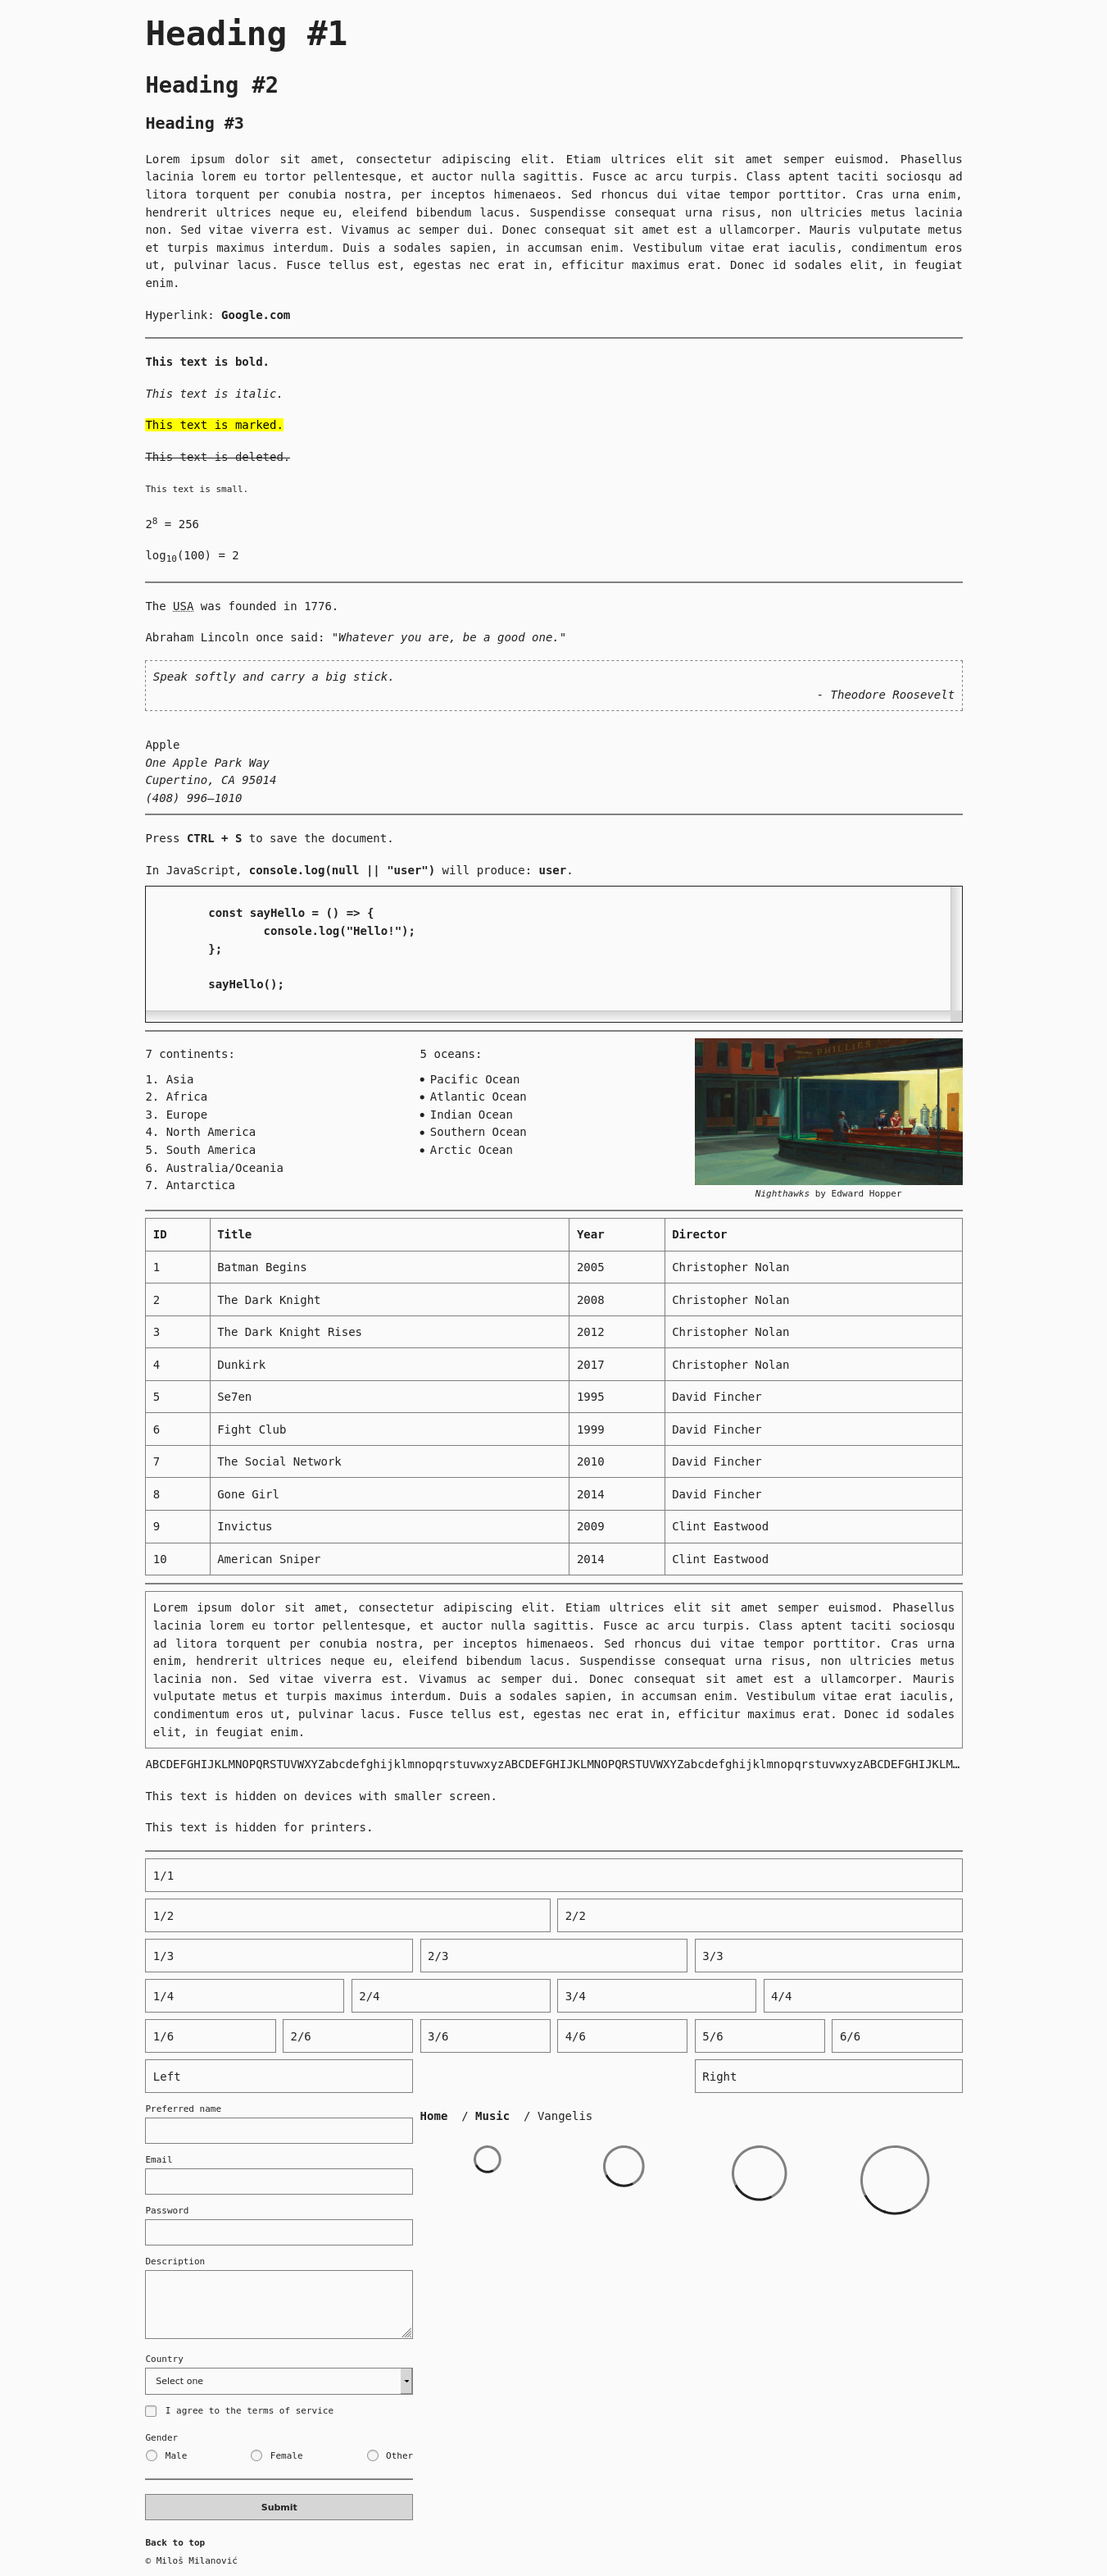
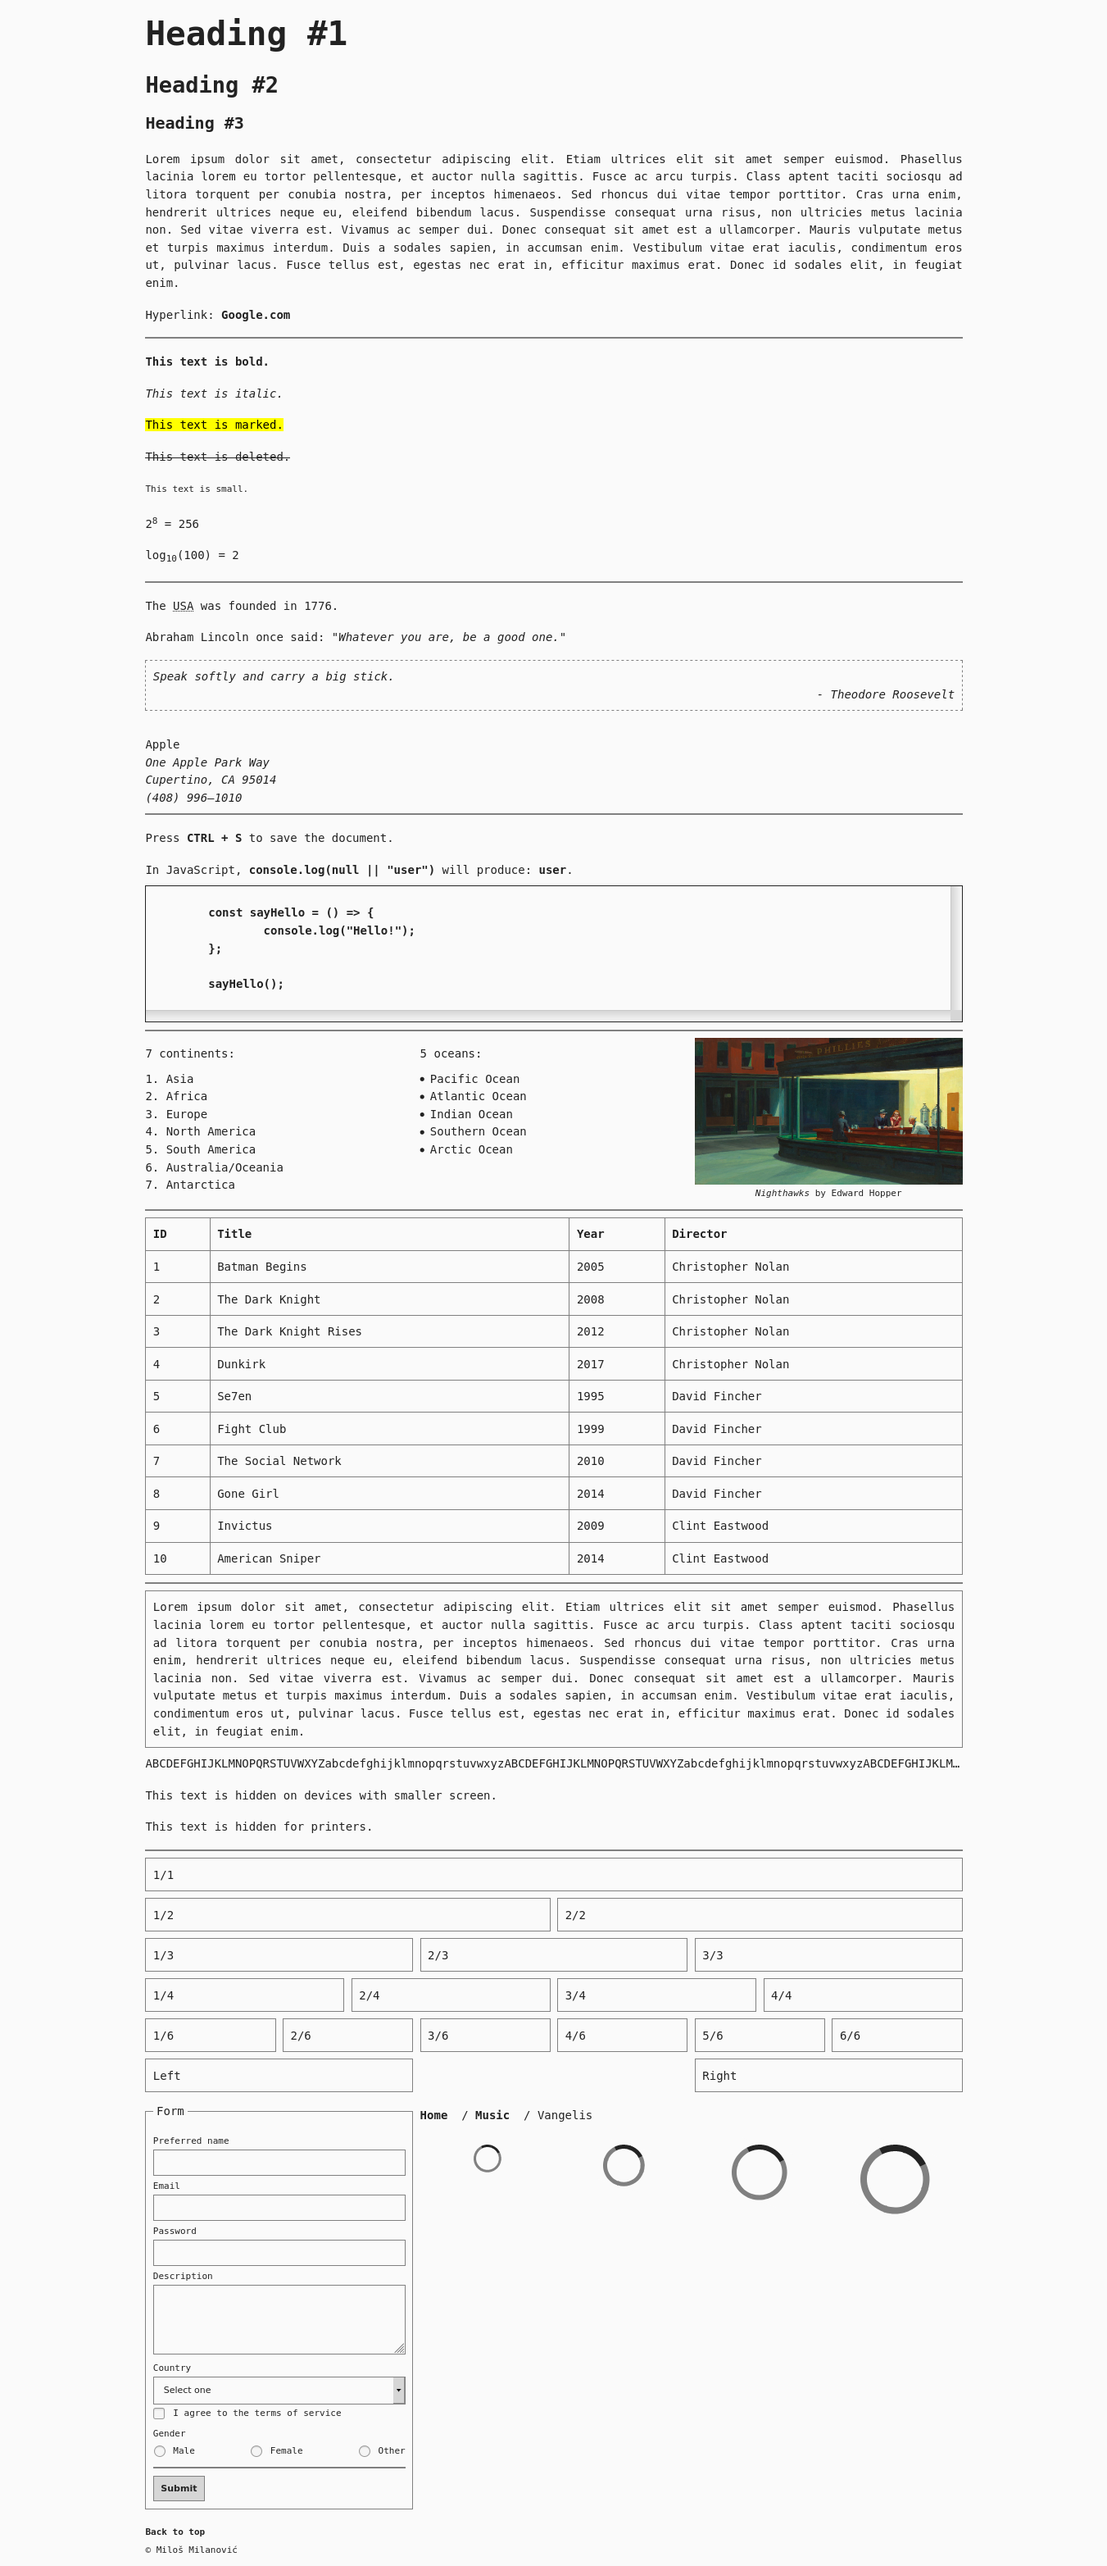
Style fieldset and legend elements

diff --git a/dist/minimalizr.css b/dist/minimalizr.css
@@ -1,1 +1,1 @@
-::selection{background-color:#222;color:#fafafa}*{box-sizing:border-box;margin:0;padding:0}*:focus{outline:1px dashed gray;outline-offset:2px}html{font-size:100%;scroll-behavior:smooth}body{background-color:#fafafa;color:#222;font-family:monospace;font-size:1rem;line-height:1.6rem}h1,h2,h3{margin:10px 0}h1{font-size:3rem;line-height:4.8rem}h2{font-size:2rem;line-height:3.2rem}h3{font-size:1.5rem;line-height:2.4rem}p{padding:10px 0;text-align:justify}a{color:inherit;cursor:pointer;font-weight:bold;outline:none;text-decoration:none}a:active{outline:1px dotted gray;outline-offset:4px}a:hover{text-decoration:underline}strong{font-weight:bold}em{font-style:italic}mark{background-color:#ff0}del{text-decoration:line-through}small,sub,sup{font-size:smaller}sub{vertical-align:sub}sup{vertical-align:super}abbr[title]{text-decoration:underline dotted}q{font-style:italic}q::before,q::after{content:'"'}blockquote{border:1px dashed gray;font-style:italic;margin:10px 0;padding:10px;text-align:justify}blockquote div{text-align:right}address,cite{font-style:italic}kbd,samp,code,pre{font-family:monospace;font-weight:bold}.code{border:1px solid #222;padding:0 10px;overflow:scroll}.code pre{tab-size:2}ul,ol{list-style-position:inside}img{max-width:100%;vertical-align:middle}figure figcaption{font-size:smaller;text-align:center}.table-responsive{max-width:100%;overflow-x:auto}table{border-collapse:collapse;width:100%}th,td{border:1px solid gray;padding:10px;text-align:left}form{display:grid;grid-auto-flow:row;grid-gap:10px}label{font-size:smaller}label span{user-select:none}label span:first-child{display:inline-block}.checkbox label{cursor:pointer;display:inline-flex;align-items:center}.checkbox input[type=checkbox]{width:auto;margin-right:10px}.radiogroup{display:flex;justify-content:space-between;flex-wrap:wrap}.radiogroup>span{font-size:smaller;width:100%}.radiogroup label{cursor:pointer;user-select:none;display:inline-flex;align-items:center;flex-direction:row-reverse}.radiogroup input[type=radio]{width:auto;margin-right:10px}input,textarea,select{border:1px solid gray;background-color:#fafafa;padding:10px;width:100%;box-shadow:none;outline:none}input:focus:not([type=checkbox]):not([type=radio]),textarea:focus:not([type=checkbox]):not([type=radio]),select:focus:not([type=checkbox]):not([type=radio]){outline:2px solid gray;outline-offset:0}input:invalid,textarea:invalid,select:invalid{border-color:red}input:disabled,textarea:disabled,select:disabled{color:gray;cursor:not-allowed}textarea{height:100px;min-height:40px;max-height:300px;resize:vertical}button{cursor:pointer;font-weight:bold;border:1px solid gray;color:#222;padding:10px;transition-property:background-color color;transition-duration:.2s;transition-timing-function:ease-in-out}button:hover:not(:disabled){background-color:#222;color:#fafafa}button:disabled{cursor:not-allowed}button:focus{outline:2px solid gray;outline-offset:0}hr{border:1px solid gray;margin:10px 0}footer{font-size:smaller}@media screen and (max-width: 768px){body{font-size:.9rem}}.container{width:1200px;max-width:100%;margin:0 auto}.container-fluid{width:100%}.container,.container-fluid{padding:0 10px}.row{display:grid;grid-template-columns:repeat(12, 1fr);margin:10px 0}.row-gapped{grid-gap:10px}.col-1{grid-column:span 1}.col-2{grid-column:span 2}.col-3{grid-column:span 3}.col-4{grid-column:span 4}.col-5{grid-column:span 5}.col-6{grid-column:span 6}.col-7{grid-column:span 7}.col-8{grid-column:span 8}.col-9{grid-column:span 9}.col-10{grid-column:span 10}.col-11{grid-column:span 11}.col-12{grid-column:span 12}.col-pull-right{grid-column-end:-1}@media screen and (max-width: 768px){.col-sm-1{grid-column:span 1}.col-sm-2{grid-column:span 2}.col-sm-3{grid-column:span 3}.col-sm-4{grid-column:span 4}.col-sm-5{grid-column:span 5}.col-sm-6{grid-column:span 6}.col-sm-7{grid-column:span 7}.col-sm-8{grid-column:span 8}.col-sm-9{grid-column:span 9}.col-sm-10{grid-column:span 10}.col-sm-11{grid-column:span 11}.col-sm-12{grid-column:span 12}}.bordered{border:1px solid gray}.padded{padding:10px}.text-left{text-align:left}.text-center{text-align:center}.text-right{text-align:right}.text-justify{text-align:justify}.text-truncate{overflow:hidden;text-overflow:ellipsis;white-space:nowrap}.no-scroll{overflow:hidden}ul.breadcrumbs{display:flex;list-style-type:none;user-select:none}ul.breadcrumbs li{padding:10px 0}ul.breadcrumbs li:not(:last-child)::after{content:" / ";display:inline-block;margin:0 10px}ul.breadcrumbs li:last-child a{cursor:initial;font-weight:normal}ul.breadcrumbs li:last-child a:hover{text-decoration:none}@keyframes spin{from{transform:rotate(0deg)}to{transform:rotate(360deg)}}.spinner{height:40px;width:40px}.spinner,.spinner-l,.spinner-xl,.spinner-xxl{border:4px solid gray;border-top:4px solid #222;border-radius:50%;display:block;animation-name:spin;animation-duration:1s;animation-timing-function:linear;animation-iteration-count:infinite;margin:10px auto;overflow:hidden}.spinner-l{height:60px;width:60px;border-width:6px}.spinner-xl{height:80px;width:80px;border-width:8px}.spinner-xxl{height:100px;width:100px;border-width:10px}@media screen and (max-width: 768px){.hide-on-sm{display:none}}@media print{.hide-on-print{display:none}}/*# sourceMappingURL=minimalizr.css.map */
+::selection{background-color:#222;color:#fafafa}*{box-sizing:border-box;margin:0;padding:0}*:focus{outline:1px dashed gray;outline-offset:2px}html{font-size:100%;scroll-behavior:smooth}body{background-color:#fafafa;color:#222;font-family:monospace;font-size:1rem;line-height:1.6rem}h1,h2,h3{margin:10px 0}h1{font-size:3rem;line-height:4.8rem}h2{font-size:2rem;line-height:3.2rem}h3{font-size:1.5rem;line-height:2.4rem}p{padding:10px 0;text-align:justify}a{color:inherit;cursor:pointer;font-weight:bold;outline:none;text-decoration:none}a:active{outline:1px dotted gray;outline-offset:4px}a:hover{text-decoration:underline}strong{font-weight:bold}em{font-style:italic}mark{background-color:#ff0}del{text-decoration:line-through}small,sub,sup{font-size:smaller}sub{vertical-align:sub}sup{vertical-align:super}abbr[title]{text-decoration:underline dotted}q{font-style:italic}q::before,q::after{content:'"'}blockquote{border:1px dashed gray;font-style:italic;margin:10px 0;padding:10px;text-align:justify}blockquote div{text-align:right}address,cite{font-style:italic}kbd,samp,code,pre{font-family:monospace;font-weight:bold}.code{border:1px solid #222;padding:0 10px;overflow:scroll}.code pre{tab-size:2}ul,ol{list-style-position:inside}img{max-width:100%;vertical-align:middle}figure figcaption{font-size:smaller;text-align:center}.table-responsive{max-width:100%;overflow-x:auto}table{border-collapse:collapse;width:100%}th,td{border:1px solid gray;padding:10px;text-align:left}form{display:grid;grid-auto-flow:row;grid-gap:10px}label{font-size:smaller}label span{user-select:none}label span:first-child{display:inline-block}.checkbox label{cursor:pointer;display:inline-flex;align-items:center}.checkbox input[type=checkbox]{width:auto;margin-right:10px}.radiogroup{display:flex;justify-content:space-between;flex-wrap:wrap}.radiogroup>span{font-size:smaller;width:100%}.radiogroup label{cursor:pointer;user-select:none;display:inline-flex;align-items:center;flex-direction:row-reverse}.radiogroup input[type=radio]{width:auto;margin-right:10px}input,textarea,select{border:1px solid gray;background-color:#fafafa;padding:10px;width:100%;box-shadow:none;outline:none}input:focus:not([type=checkbox]):not([type=radio]),textarea:focus:not([type=checkbox]):not([type=radio]),select:focus:not([type=checkbox]):not([type=radio]){outline:2px solid gray;outline-offset:0}input:invalid,textarea:invalid,select:invalid{border-color:red}input:disabled,textarea:disabled,select:disabled{color:gray;cursor:not-allowed}textarea{height:100px;min-height:40px;max-height:300px;resize:vertical}fieldset{border:1px solid gray;padding:10px}legend{padding:5px}button{cursor:pointer;font-weight:bold;border:1px solid gray;color:#222;padding:10px;transition-property:background-color color;transition-duration:.1s;transition-timing-function:ease-in-out}button:hover:not(:disabled){background-color:#222;color:#fafafa}button:disabled{cursor:not-allowed}button:focus{outline:2px solid gray;outline-offset:0}hr{border:1px solid gray;margin:10px 0}footer{font-size:smaller}@media screen and (max-width: 768px){body{font-size:.9rem}}.container{width:1200px;max-width:100%;margin:0 auto}.container-fluid{width:100%}.container,.container-fluid{padding:0 10px}.row{display:grid;grid-template-columns:repeat(12, 1fr);margin:10px 0}.row-gapped{grid-gap:10px}.col-1{grid-column:span 1}.col-2{grid-column:span 2}.col-3{grid-column:span 3}.col-4{grid-column:span 4}.col-5{grid-column:span 5}.col-6{grid-column:span 6}.col-7{grid-column:span 7}.col-8{grid-column:span 8}.col-9{grid-column:span 9}.col-10{grid-column:span 10}.col-11{grid-column:span 11}.col-12{grid-column:span 12}.col-pull-right{grid-column-end:-1}@media screen and (max-width: 768px){.col-sm-1{grid-column:span 1}.col-sm-2{grid-column:span 2}.col-sm-3{grid-column:span 3}.col-sm-4{grid-column:span 4}.col-sm-5{grid-column:span 5}.col-sm-6{grid-column:span 6}.col-sm-7{grid-column:span 7}.col-sm-8{grid-column:span 8}.col-sm-9{grid-column:span 9}.col-sm-10{grid-column:span 10}.col-sm-11{grid-column:span 11}.col-sm-12{grid-column:span 12}}.bordered{border:1px solid gray}.padded{padding:10px}.text-left{text-align:left}.text-center{text-align:center}.text-right{text-align:right}.text-justify{text-align:justify}.text-truncate{overflow:hidden;text-overflow:ellipsis;white-space:nowrap}.no-scroll{overflow:hidden}ul.breadcrumbs{display:flex;list-style-type:none;user-select:none}ul.breadcrumbs li{padding:10px 0}ul.breadcrumbs li:not(:last-child)::after{content:" / ";display:inline-block;margin:0 10px}ul.breadcrumbs li:last-child a{cursor:initial;font-weight:normal}ul.breadcrumbs li:last-child a:hover{text-decoration:none}@keyframes spin{from{transform:rotate(0deg)}to{transform:rotate(360deg)}}.spinner{height:40px;width:40px}.spinner,.spinner-l,.spinner-xl,.spinner-xxl{border:4px solid gray;border-top:4px solid #222;border-radius:50%;display:block;animation-name:spin;animation-duration:1s;animation-timing-function:linear;animation-iteration-count:infinite;margin:10px auto;overflow:hidden}.spinner-l{height:60px;width:60px;border-width:6px}.spinner-xl{height:80px;width:80px;border-width:8px}.spinner-xxl{height:100px;width:100px;border-width:10px}@media screen and (max-width: 768px){.hide-on-sm{display:none}}@media print{.hide-on-print{display:none}}/*# sourceMappingURL=minimalizr.css.map */

diff --git a/index.html b/index.html
@@ -239,54 +239,57 @@
 		<div class="row row-gapped">
 			<div class="col-4 col-sm-12">
 				<form>
-					<label>
-						<span>Preferred name</span>
-						<input type="text">
-					</label>
-					<label>
-						<span>Email</span>
-						<input type="email">
-					</label>
-					<label>
-						<span>Password</span>
-						<input type="password">
-					</label>
-					<label>
-						<span>Description</span>
-						<textarea></textarea>
-					</label>
-					<label>
-						<span>Country</span>
-						<select>
-							<option value="">Select one</option>
-							<option value="au">Australia</option>
-							<option value="rs">Serbia</option>
-							<option value="us">USA</option>
-						</select>
-					</label>
-					<div class="checkbox">
+					<fieldset>
+						<legend>Form</legend>
 						<label>
-							<input type="checkbox">
-							<span>I agree to the terms of service</span>
-						</label>
-					</div>
-					<div class="radiogroup">
-						<span>Gender</span>
-						<label>
-							Male
-							<input type="radio" name="gender" value="male">
+							<span>Preferred name</span>
+							<input type="text">
 						</label>
 						<label>
-							Female
-							<input type="radio" name="gender" value="female">
+							<span>Email</span>
+							<input type="email">
 						</label>
 						<label>
-							Other
-							<input type="radio" name="gender" value="other">
+							<span>Password</span>
+							<input type="password">
 						</label>
-					</div>
-					<hr>
-					<button type="submit">Submit</button>
+						<label>
+							<span>Description</span>
+							<textarea></textarea>
+						</label>
+						<label>
+							<span>Country</span>
+							<select>
+								<option value="">Select one</option>
+								<option value="au">Australia</option>
+								<option value="rs">Serbia</option>
+								<option value="us">USA</option>
+							</select>
+						</label>
+						<div class="checkbox">
+							<label>
+								<input type="checkbox">
+								<span>I agree to the terms of service</span>
+							</label>
+						</div>
+						<div class="radiogroup">
+							<span>Gender</span>
+							<label>
+								Male
+								<input type="radio" name="gender" value="male">
+							</label>
+							<label>
+								Female
+								<input type="radio" name="gender" value="female">
+							</label>
+							<label>
+								Other
+								<input type="radio" name="gender" value="other">
+							</label>
+						</div>
+						<hr>
+						<button type="submit">Submit</button>
+					</fieldset>
 				</form>
 			</div>
 			<div class="col-8 col-sm-12">

diff --git a/src/_base.scss b/src/_base.scss
@@ -265,6 +265,15 @@ textarea {
 	resize: vertical;
 }
 
+fieldset {
+	border: 1px solid map-get($colors, 'gray');
+	padding: 10px;
+}
+
+legend {
+	padding: 5px;
+}
+
 /* Buttons */
 button {
 	cursor: pointer;
@@ -273,7 +282,7 @@ button {
 	color: map-get($colors, 'dark');
 	padding: $spacing;
 	transition-property: background-color color;
-	transition-duration: .2s;
+	transition-duration: .1s;
 	transition-timing-function: ease-in-out;
 
 	&:hover:not(:disabled) {
